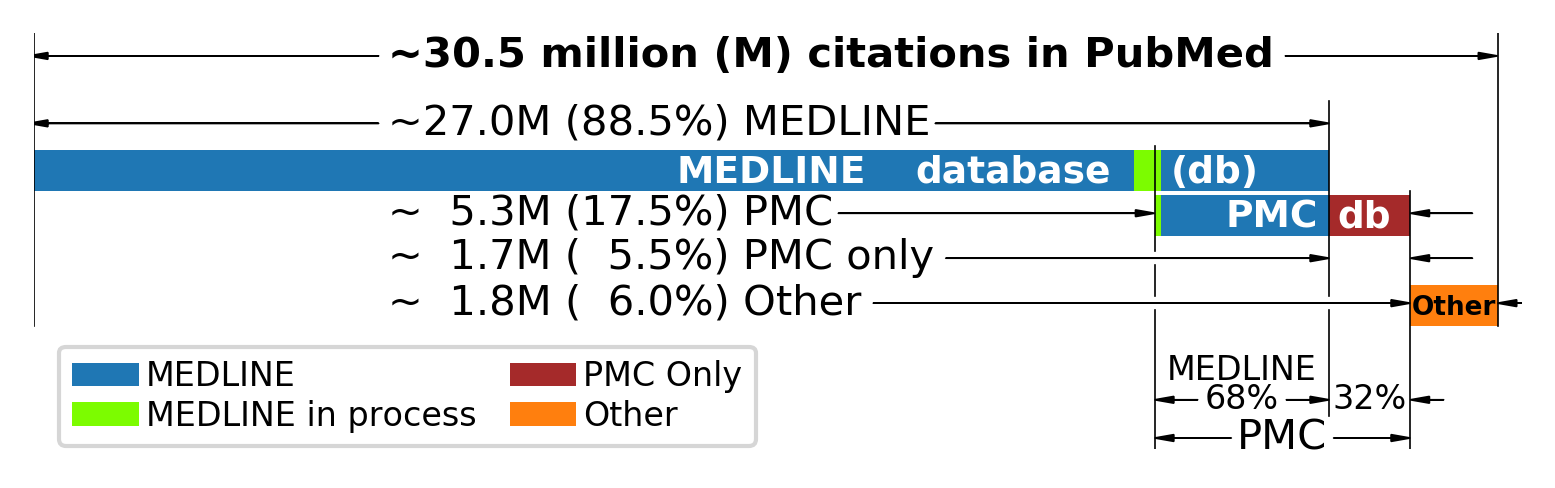
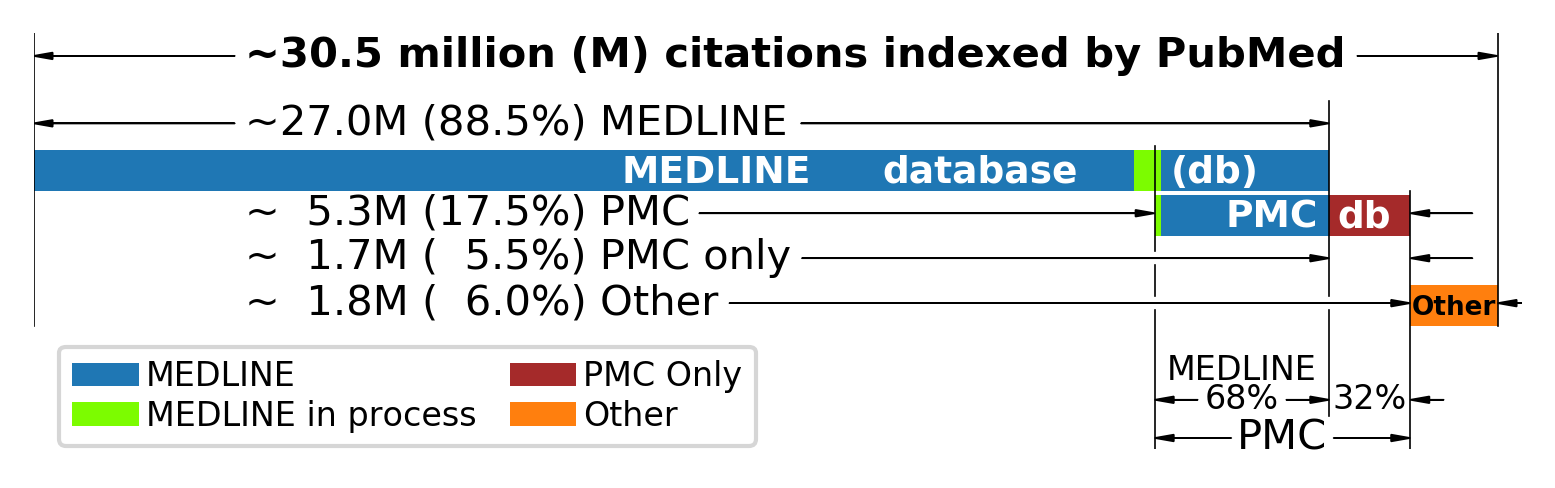
Improve figure

diff --git a/src/pmidcite/eutils/pubmed/counts/plt.py b/src/pmidcite/eutils/pubmed/counts/plt.py
@@ -73,14 +73,14 @@ class PubMedPlot:
 
     @staticmethod
     def _text_on_bars(axes):
-        """Add text to colorbars using xy coordinates from 'XY-COORD'"""
+        """Add text on colorbars using xy coordinates from 'XY-COORD'"""
         dct_txt = {'va':'bottom', 'fontweight':'bold'}
         # bar text: MEDLINE
         # XY-COORD [(       0, 22956376)] (11.5, 1.8)
         # XY-COORD [(22956376,   558119)] (11.5, 1.8)
         # XY-COORD [(23514495,  3505412)] (11.5, 1.8)
-        axes.text(22956376*.67, 11.5, 'MEDLINE', fontsize=9, color='white', ha='center', **dct_txt)
-        axes.text(22956376*.89, 11.5, 'database', fontsize=9, color='white', ha='center', **dct_txt)
+        axes.text(22956376*.62, 11.5, 'MEDLINE', fontsize=9, color='white', ha='center', **dct_txt)
+        axes.text(22956376*.86, 11.5, 'database', fontsize=9, color='white', ha='center', **dct_txt)
         axes.text(22956376 + 558119 + 3505412*.32, 11.5, '(db)', fontsize=9, color='white', ha='center', **dct_txt)
         # bar text: PMC
         # XY-COORD [(23378342,  136153)] (9.5, 1.8)
@@ -141,21 +141,22 @@ class PubMedPlot:
         """Add bounding lines"""
         plt.plot((0, 0), (ymax-12, ymax+1), color='k', linewidth=0.4)        # LEFT  PubMed LINE
         plt.plot((xend, xend), (ymax-12, ymax+1), color='k', linewidth=0.4)  # RIGHT PubMed LINE
-        plt.arrow(7200000, ymax, -7300000, 0, **self.arrow_p)
-        plt.arrow(26100000, ymax, xend-26100000, 0, **self.arrow_p)
+        plt.arrow(4200000, ymax, -4200000, 0, **self.arrow_p)
+        plt.arrow(27600000, ymax, xend-27600000, 0, **self.arrow_p)
         ntd = self.dataobj.pltdata_pubmed['PubMed']
-        txt = '~{N:4.1f} million (M) citations in PubMed'.format(N=round(ntd.count/1000000.0, 1))
-        plt.annotate(txt, (7400000, ymax-.5), fontweight='bold')
+        txt = '~{N:4.1f} million (M) citations indexed by PubMed'.format(
+            N=round(ntd.count/1000000.0, 1))
+        plt.annotate(txt, (4400000, ymax-.5), fontweight='bold')
 
     def _add_bounding_lines_medline(self, xend, yval):
         """Add bounding lines"""
         plt.plot((xend, xend), (yval-8.7, yval), color='k', linewidth=0.4)   # BLUE-YELLOW DIVIDER
         plt.plot((xend, xend), (yval-14, yval-9.3), color='k', linewidth=0.4)  # BLUE-YELLOW DIVIDER
-        plt.arrow(7200000, yval-1, -7300000, 0, **self.arrow_p)
-        plt.arrow(18800000, yval-1, xend-18800000, 0, **self.arrow_p)
+        plt.arrow(4200000, yval-1, -4200000, 0, **self.arrow_p)
+        plt.arrow(16000000, yval-1, xend-16000000, 0, **self.arrow_p)
         ntd = self.dataobj.pltdata_pubmed['MEDLINE_n_inprocess']
         txt = '~{N:4.1f}M ({P:4.1f}%) MEDLINE'.format(N=round(ntd.count/1000000.0, 1), P=ntd.perc)
-        plt.annotate(txt, (7400000, yval-1.5))
+        plt.annotate(txt, (4400000, yval-1.5))
 
     def _add_bounding_lines_pmc(self, yval):
         """Add bounding lines"""
@@ -171,27 +172,27 @@ class PubMedPlot:
         plt.plot((pmc_x0, pmc_x0), (yval-2.7, yval+2), color='k', linewidth=0.4)    # UPPER CYAN DIVIDER
         plt.plot((pmc_x0, pmc_x0), (yval-4.7, yval-3.3), color='k', linewidth=0.4)  # UPPER CYAN DIVIDER
         # PMC
-        plt.arrow(pmc_x0-6600000, yval-1, 6600000, 0, **self.arrow_p)
+        plt.arrow(pmc_x0-9500000, yval-1, 9500000, 0, **self.arrow_p)
         plt.arrow(pmc_xn+1300000, yval-1, -1300000, 0, **self.arrow_p)
         ntd = self.dataobj.pltdata_pubmed['PMC']
         txt = '~{N:5.1f}M ({P:3.1f}%) PMC'.format(N=round(ntd.count/1000000.0, 1), P=ntd.perc)
-        plt.annotate(txt, (7400000, yval-1.5))
+        plt.annotate(txt, (4400000, yval-1.5))
         # PMC Only
-        plt.arrow(a2n['medline_n_inprocess']-8000000, yval-3, 8000000, 0, **self.arrow_p)
+        plt.arrow(a2n['medline_n_inprocess']-11000000, yval-3, 11000000, 0, **self.arrow_p)
         plt.arrow(pmc_xn+1300000, yval-3, -1300000, 0, **self.arrow_p)
         ntd = self.dataobj.pltdata_pubmed['PMC_only']
         txt = '~{N:5.1f}M (  {P:3.1f}%) PMC only'.format(N=round(ntd.count/1000000.0, 1), P=ntd.perc)
-        plt.annotate(txt, (7400000, yval-3.5))
+        plt.annotate(txt, (4400000, yval-3.5))
 
     def _add_bounding_lines_other(self, other_sz, yval, xmax):
         """Add bounding lines"""
         xval = xmax - other_sz
         plt.plot((xval, xval), (yval-8, yval+4), color='k', linewidth=0.4)  # YELLOW-ORANGE DIVIDER
-        plt.arrow(xval-11200000, yval-1, 11200000, 0, **self.arrow_p)
+        plt.arrow(xval-14200000, yval-1, 14200000, 0, **self.arrow_p)
         plt.arrow(xmax+600000, yval-1, -600000, 0, **self.arrow_p)
         ntd = self.dataobj.pltdata_pubmed['other']
         txt = '~{N:5.1f}M ({P:5.1f}%) Other'.format(N=round(ntd.count/1000000.0, 1), P=ntd.perc)
-        plt.annotate(txt, (7400000, yval-1.5))
+        plt.annotate(txt, (4400000, yval-1.5))
 
     def _add_bounding_lines_pmc_100(self, yval):
         """Add bounding lines"""

diff --git a/src/bin/plot_pubmed_contents.py b/src/bin/plot_pubmed_contents.py
@@ -13,8 +13,10 @@ from pmidcite.eutils.pubmed.counts.plt import PubMedPlot
 def main(dnld=False):
     """Plot the types of content and their amount in PubMed"""
     fpat_png = 'log/pubmed_content/pubmed_content_{DATE}.png'
-    fout_png = 'pubmed_content_2020_01_10.png'
-    # fout_png = 'pubmed_content_2020_01_10.tiff'
+    fout_pngs = [
+        'pubmed_content_2020_01_10.png',
+        'pubmed_content_2020_01_10.tiff'
+    ]
     fout_py = 'src/pmidcite/eutils/pubmed/counts/dnlded_data.py'
 
     cfg = Cfg()
@@ -26,7 +28,8 @@ def main(dnld=False):
 
     # Plot PubMed content
     plt = PubMedPlot(name2cnt)
-    plt.plt_content_counts(fout_png)
+    for fout_png in fout_pngs:
+        plt.plt_content_counts(fout_png)
     for name, ntd in plt.dataobj.pltdata_pubmed.items():
         print(' {N:10,} {P:5.1f}% {NAME}'.format(NAME=name, N=ntd.count, P=ntd.perc))
 
